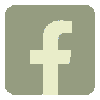
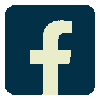
redesign colours fonts

diff --git a/index.html b/index.html
@@ -6,14 +6,24 @@
     <meta name="viewport" content="width=devicewidth, initial-scale=1.0">
     <title>Chumi</title>
 
+    <link rel="stylesheet" href="CSS/index.css">
+
     <link rel="preconnect" href="https://fonts.googleapis.com">
     <link rel="preconnect" href="https://fonts.gstatic.com" crossorigin>
-    <link href="https://fonts.googleapis.com/css2?family=Micro+5&family=Protest+Riot&display=swap" rel="stylesheet">
-    <link rel="stylesheet" href="CSS/index.css">
+    <link href="https://fonts.googleapis.com/css2?family=Lato:ital,wght@0,100;0,300;0,400;0,700;0,900;1,100;1,300;1,400;1,700;1,900&family=Micro+5&family=Protest+Riot&family=Rubik+Mono+One&display=swap" rel="stylesheet">
+
+
+    <link rel="preconnect" href="https://fonts.googleapis.com">
+    <link rel="preconnect" href="https://fonts.gstatic.com" crossorigin>
+    <link href="https://fonts.googleapis.com/css2?family=Lato:ital,wght@0,100;0,300;0,400;0,700;0,900;1,100;1,300;1,400;1,700;1,900&family=Micro+5&family=Protest+Riot&display=swap" rel="stylesheet">
 
     <style>
         html {
-            background-color: #fefae0;
+            background-color: #023047;
+            color: white;
+            font-family: "Lato", sans-serif;
+            font-weight: 400;
+            font-style: normal;
         }
     </style>
 </head>

diff --git a/CSS/index.css b/CSS/index.css
@@ -2,24 +2,24 @@ body {}
 
 header {
     text-align: center;
-    padding-top: 3em;
-    padding-bottom: 3em;
-    background-color: #d4a373;
-    color: #5F4933;
+    padding-top: 4em;
+    padding-bottom: 4em;
+    background-color: #B1E4F2;
+    color: #023047;
 }
 
 h1 {
-    font-family: "Protest Riot", sans-serif;
-    font-weight: 800;
+    font-family: "Rubik Mono One", sans-serif;
+    font-weight: 400;
     font-style: normal;
-    rotate: 0 0 1 340deg;
+    /*rotate: 0 0 1 340deg;*/
     font-size: 3em
 }
 
 #mainContent {
     margin-top: 2em;
-    margin-left: 8em;
-    margin-right: 8em;
+    margin-left: 10em;
+    margin-right: 10em;
     min-height: 60vh;
 }
 
@@ -29,11 +29,12 @@ h1 {
 }
 
 footer {
-    background-color: #d4a373;
+    background-color: #B1E4F2;
     display: grid;
     grid-template-columns: auto auto auto;
     text-align: center;
     margin-top: auto;
+    color: #023047;
 }
 
 .socMeds {
@@ -42,7 +43,7 @@ footer {
     grid-template-columns: auto auto auto;
 }
 
-#doghouse{
-    margin:auto;
+#doghouse {
+    margin: auto;
     display: block;
 }
